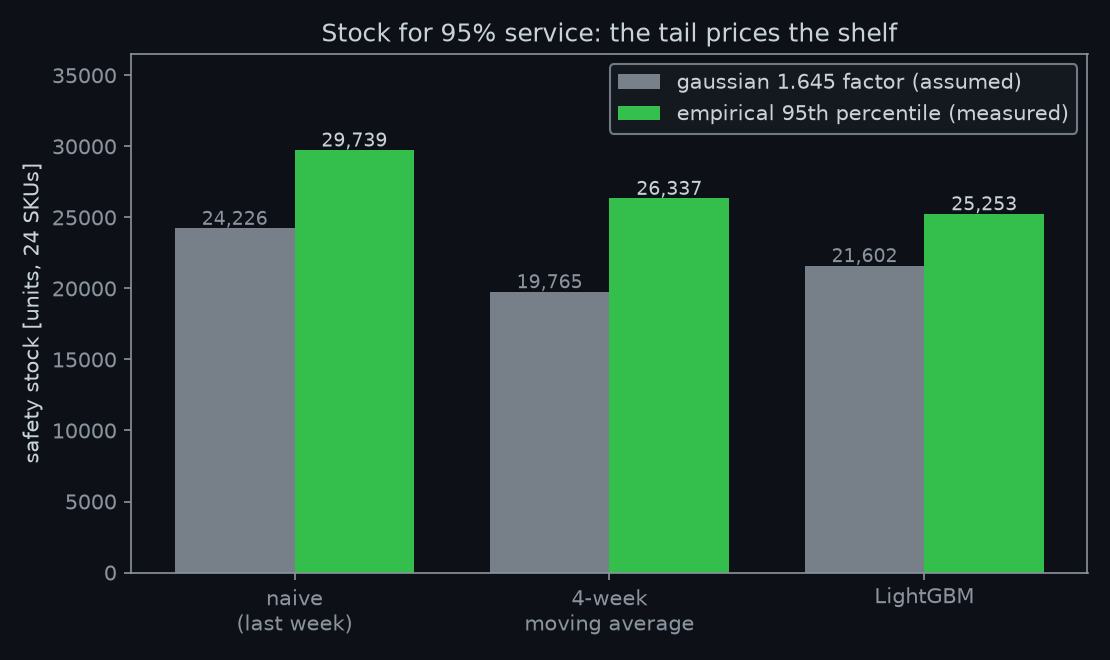
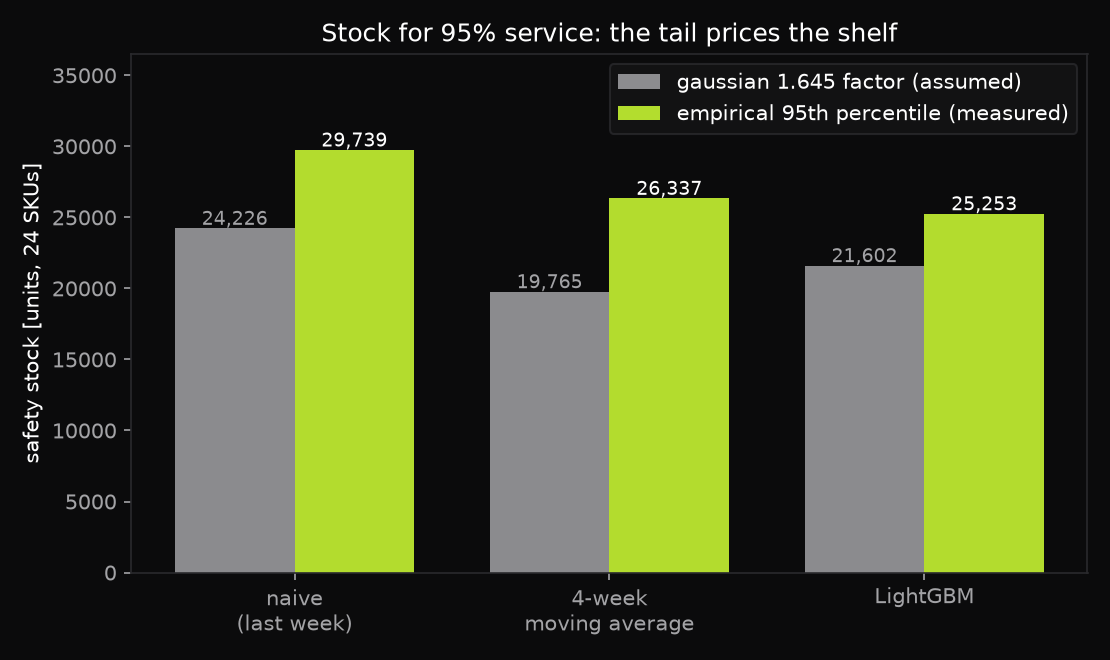
Re-render figures in palette A (data unchanged)
Claude-Session: https://claude.ai/code/session_01D47Fi15diK1kUPdyAUWe3G

diff --git a/restock.py b/restock.py
@@ -119,21 +119,21 @@ with open("metrics.json", "w") as f:
 print(json.dumps(results, indent=2))
 
 # --------------------------------------------------------------- figures
-DARK = {"bg": "#0d1117", "surface": "#161b22", "ink": "#c9d1d9",
-        "muted": "#8b949e", "accent": "#39d353", "link": "#58a6ff",
-        "warn": "#d29922"}
+DARK = {"bg": "#0B0B0C", "surface": "#141415", "ink": "#FFFFFF",
+        "muted": "#A3A3A6", "border": "#2A2A2D", "accent": "#C6F432",
+        "link": "#6B6B70", "warn": "#d29922"}
 
 def dark_ax(ax):
     ax.set_facecolor(DARK["bg"])
     for s in ax.spines.values():
-        s.set_color(DARK["muted"])
+        s.set_color(DARK["border"])
     ax.tick_params(colors=DARK["muted"])
     ax.xaxis.label.set_color(DARK["ink"])
     ax.yaxis.label.set_color(DARK["ink"])
     ax.title.set_color(DARK["ink"])
 
 def dark_legend(ax):
-    leg = ax.legend(facecolor=DARK["surface"], edgecolor=DARK["muted"])
+    leg = ax.legend(facecolor=DARK["surface"], edgecolor=DARK["border"])
     for t in leg.get_texts():
         t.set_color(DARK["ink"])
 
